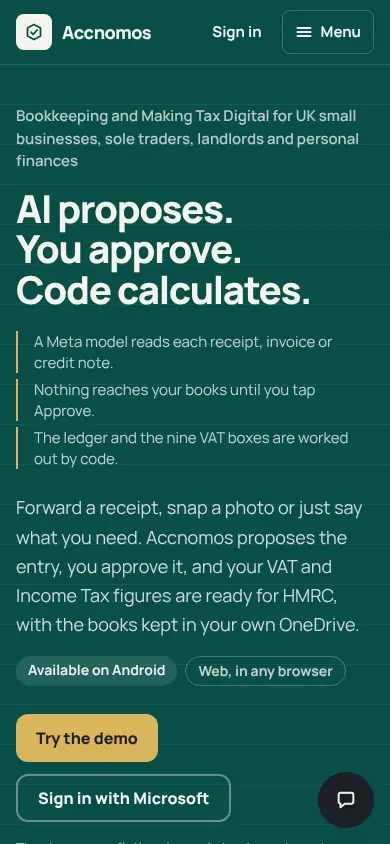
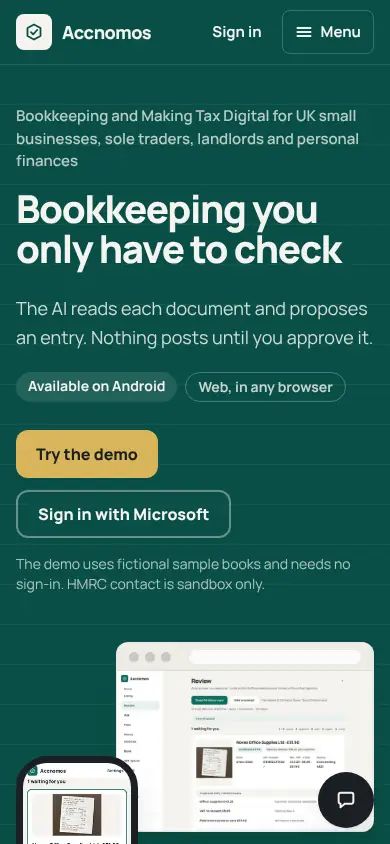
review: gate results after the main merge and the copy deck; home screenshots with the copy
Claude-Session: https://claude.ai/code/session_01HDbAb5avTPSPJmch68tciC

diff --git a/docs/reviews/site-layout/REVIEW.md b/docs/reviews/site-layout/REVIEW.md
@@ -142,12 +142,12 @@ The words now come from the copy deck (§7). The layout is unchanged from the fi
 
 | Gate | Result |
 |------|--------|
-| `cd services/runtime && python -m pytest -q` | **1711 passed, 2 skipped** (306 s) |
-| `ruff check .` / `ruff format --check .` | clean (448 files; one merge-formatting fix in `testmode.py`) |
+| `cd services/runtime && python -m pytest -q` | **1806 passed, 2 skipped** (312 s, after merging `origin/main`; 1711 before that merge) |
+| `ruff check .` / `ruff format --check .` | clean (464 files after the main merge; one merge-formatting fix in `testmode.py`) |
 | `pyright services/runtime/app` | 0 errors, 0 warnings |
 | `pnpm install --frozen-lockfile`, `pnpm exec eslint .`, `tsc --noEmit` | clean |
-| `pnpm run e2e:build` + `pnpm run e2e:test` (`CI=1`, 3 workers) | **379 passed, 0 failed, 0 flaky, 94 skipped** (14.6 min; the skips are `shots.spec.ts` and `design-shots.spec.ts`, which run only with `SHOTS=1`) |
-| `pnpm build` (production) + `prelaunch-words.mjs out` | built; 270 files, 0 pre-launch phrases |
+| `pnpm run e2e:build` + `pnpm run e2e:test` (`CI=1`, 3 workers) | Before the copy deck: **379 passed, 0 failed**, 94 skipped. After the main merge and the copy: **395 passed, 1 failed**, 94 skipped (490 tests). The failure was the new headline-size check, which found the one-line h1 had lost its display size (16 px; fixed in `globals.css`). After the fix, the specs that touch the landing page and every page sweep (site-layout, marketing, early-access, submission-mode, a11y, phone, signed-out) ran again: **265 passed, 0 failed**. The skips are `shots.spec.ts` and `design-shots.spec.ts`, which run only with `SHOTS=1`. |
+| `pnpm build` (production) + `prelaunch-words.mjs out` | built; 282 files, 0 pre-launch phrases (with the copy deck) |
 | Flutter | `flutter` is not installed in this container: `more_screen.dart` (merge) and `more_gating_test.dart` were not run here |
 
 New in **`e2e/site-layout.spec.ts`** (6 tests):
@@ -171,7 +171,7 @@ Updated:
 - `signed-out.spec.ts`: `/terms` and `/judges` are public, so they have no SAMPLE strip and their CTA is "Sign in".
 - `pages.ts`: adds `/terms`, which puts it in the axe, phone, signed-out and submission-mode sweeps.
 
-**Lighthouse 12.8.2**, local, `/`:
+**Lighthouse 12.8.2**, local, `/` (measured before the copy deck; the layout and images are unchanged since):
 
 | Build | Performance | Accessibility | Best practices | SEO | LCP | CLS | TBT |
 |-------|-------------|---------------|----------------|-----|-----|-----|-----|
